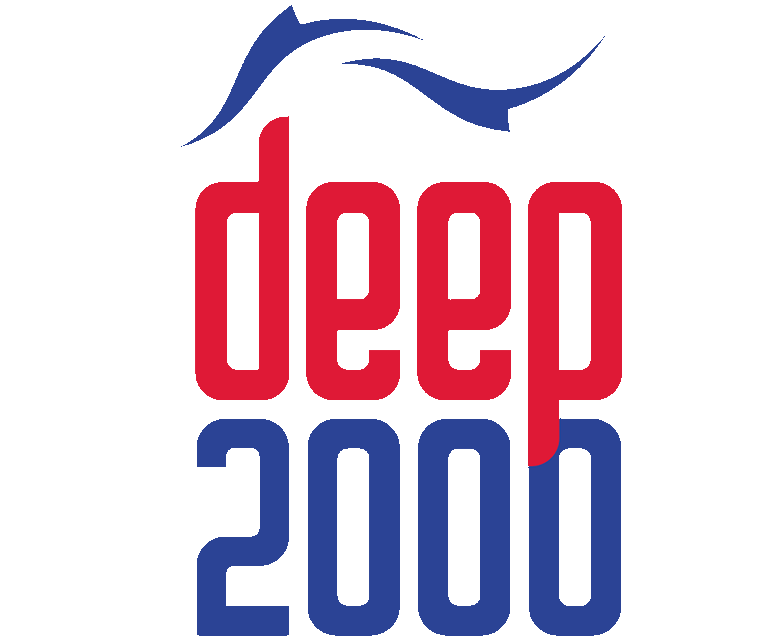
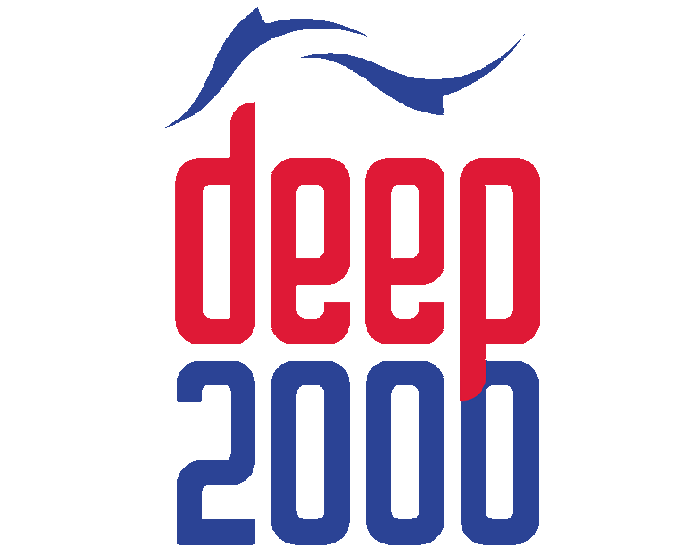
fix screensaver

diff --git a/adm_demo.py b/adm_demo.py
@@ -246,7 +246,7 @@ class App(Tkm.ThemedTKinterFrame):
         # Tab9 #
         self.image = tkinter.PhotoImage(file="deep.png")
         self.deep_label = ttk.Label(self.tab9.master, image=self.image)
-        self.deep_label.grid(row=0, column=0, columnspan=2)
+        self.deep_label.pack(expand=True)
 
         # Turn on power-board and init validator
         self.engine = Engine()
@@ -275,7 +275,7 @@ class App(Tkm.ThemedTKinterFrame):
     def restart_screensaver(self, event=None):
         if self.timer is not None:
             self.root.after_cancel(self.timer)
-        self.timer = self.root.after(150000, self.screensaver_start)
+        self.timer = self.root.after(3000, self.screensaver_start)
 
     def current_tab(self):
         return self.notebook.notebook.tabs().index(self.notebook.notebook.select())
